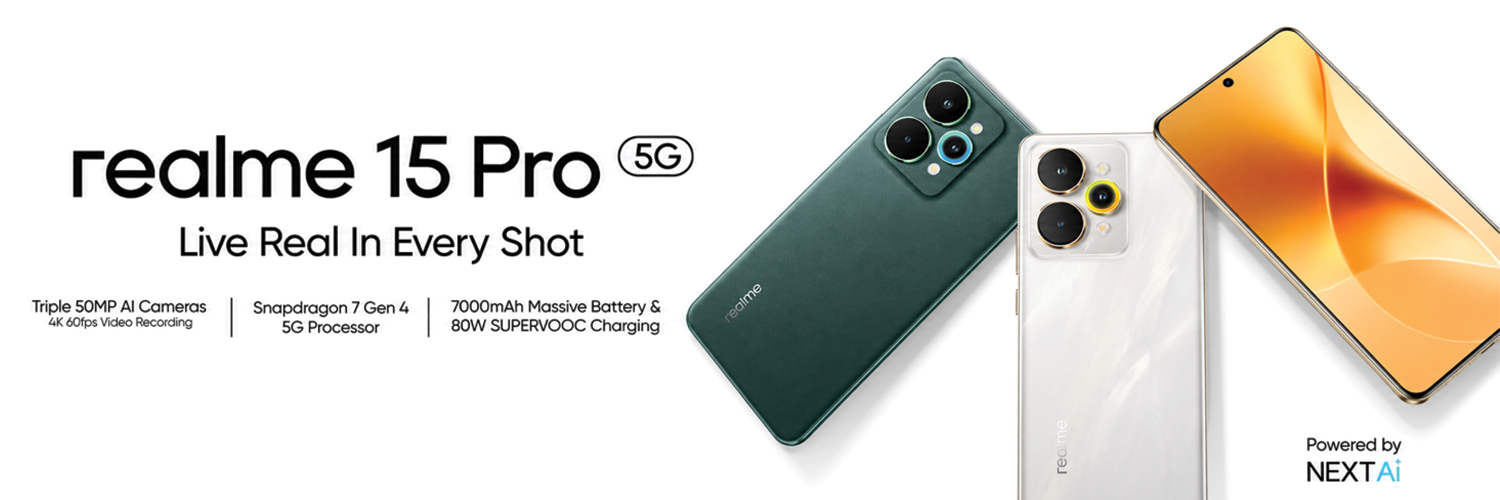
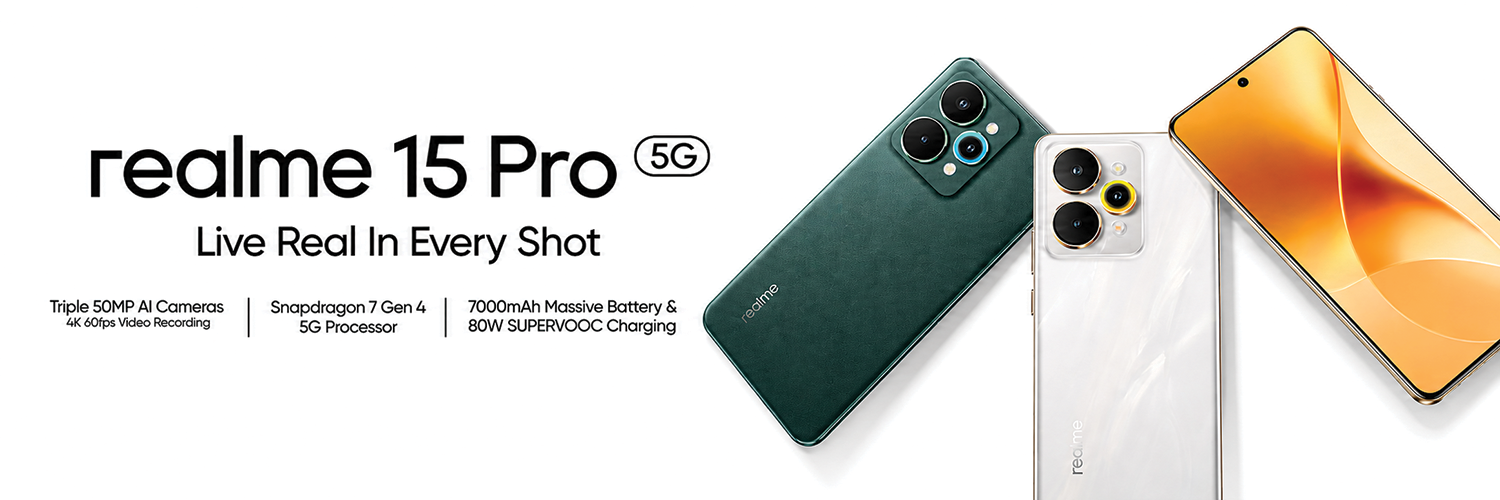
Refresh the second hero slide and bring back the third
Slide 2 takes an updated realme 15 Pro composition. Slide 3 swaps the
Redmi 15C for iPhone 17 Pro artwork and comes out of hiding, so the
carousel runs three slides again.

diff --git a/lib/data/banners.ts b/lib/data/banners.ts
@@ -4,8 +4,8 @@ import hero1 from "@/public/images/hero/hero-section-2B.png";
 import hero1m from "@/public/images/hero/hero-section-Mobile.png";
 import hero2 from "@/public/images/hero/hero-section-3B.png";
 import hero2m from "@/public/images/hero/hero-section-Mobile-2.png";
-import hero3 from "@/public/images/hero/hero3.png";
-import hero3m from "@/public/images/hero/hero3m.png";
+import hero3 from "@/public/images/hero/hero-section-4B.png";
+import hero3m from "@/public/images/hero/hero-section-Mobile-3.png";
 import hero4 from "@/public/images/hero/hero4.png";
 import hero4m from "@/public/images/hero/hero4m.png";
 
@@ -35,13 +35,12 @@ const allHeroSlides: HeroSlide[] = [
     indicatorLabel: "realme 15 Pro",
   },
   {
-    id: "redmi-15c",
-    alt: "Rise beyond limits with the Xiaomi Redmi 15C, available at Abans Smartphones.",
+    id: "iphone-17-pro",
+    alt: "iPhone 17 Pro. Power that moves with you — now at Abans Smartphones.",
     desktop: hero3,
     mobile: hero3m,
-    href: "/products?brand=redmi",
-    indicatorLabel: "Redmi 15C",
-    hidden: true,
+    href: "/products?brand=apple",
+    indicatorLabel: "iPhone 17 Pro",
   },
   {
     id: "realme-c85",
